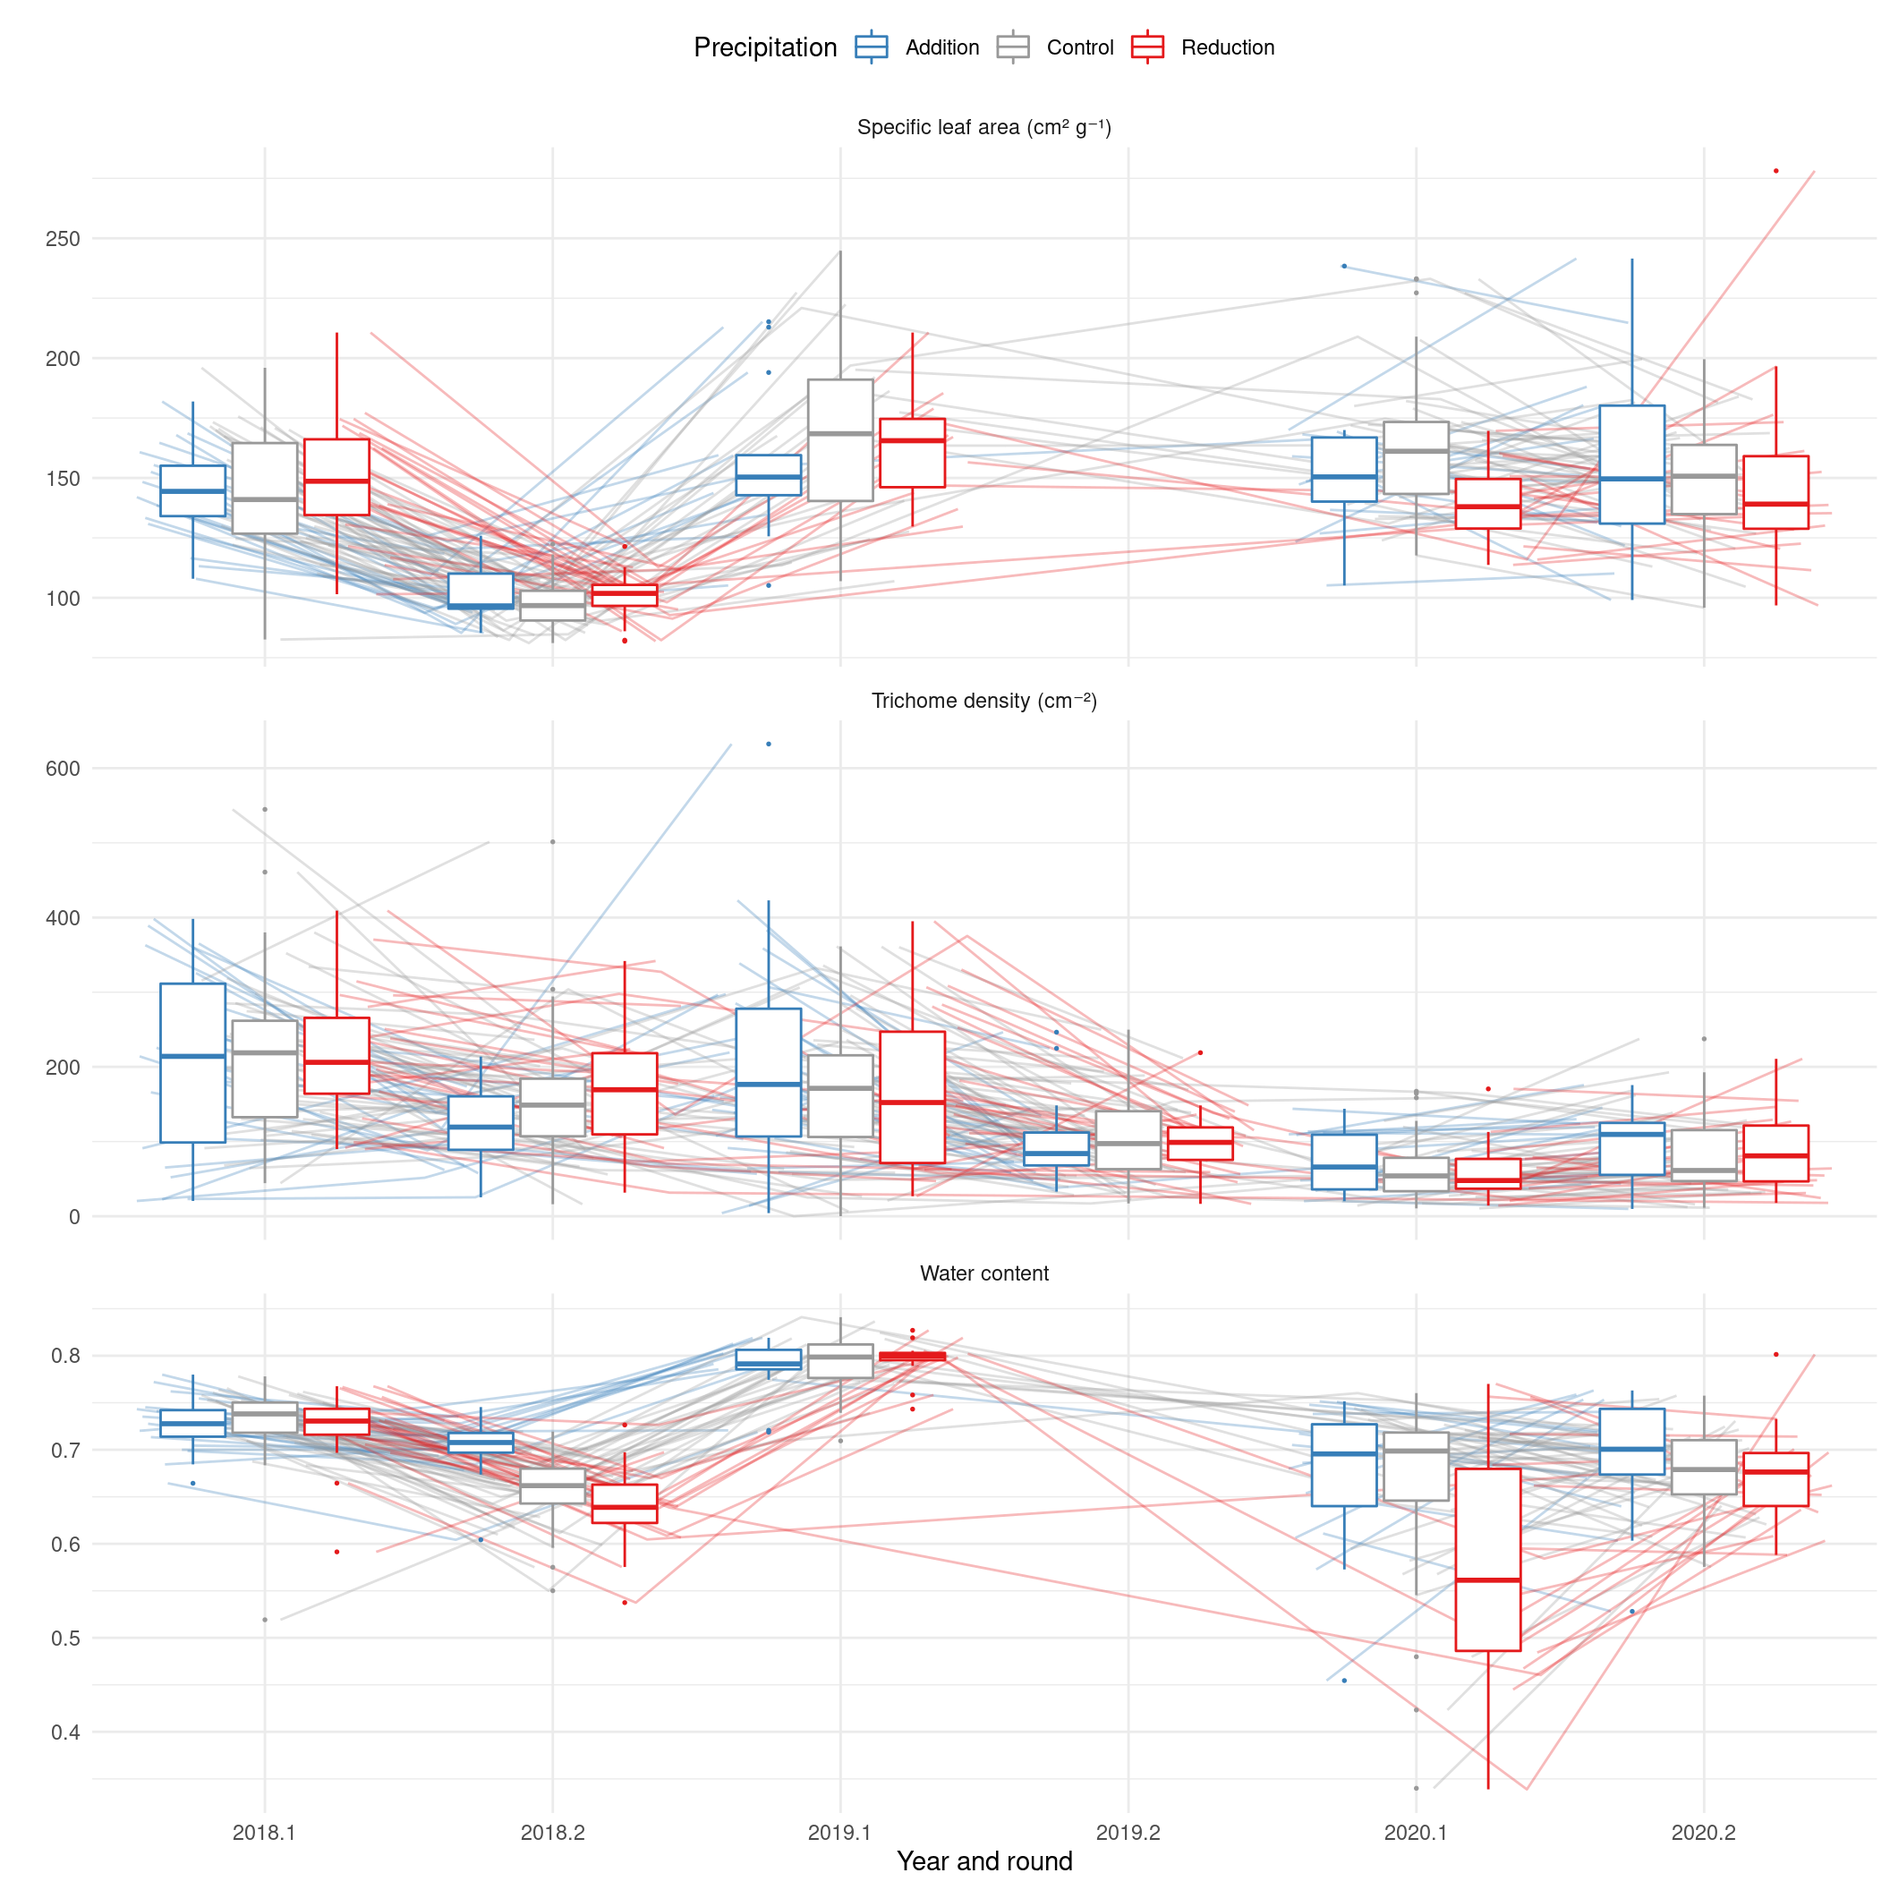
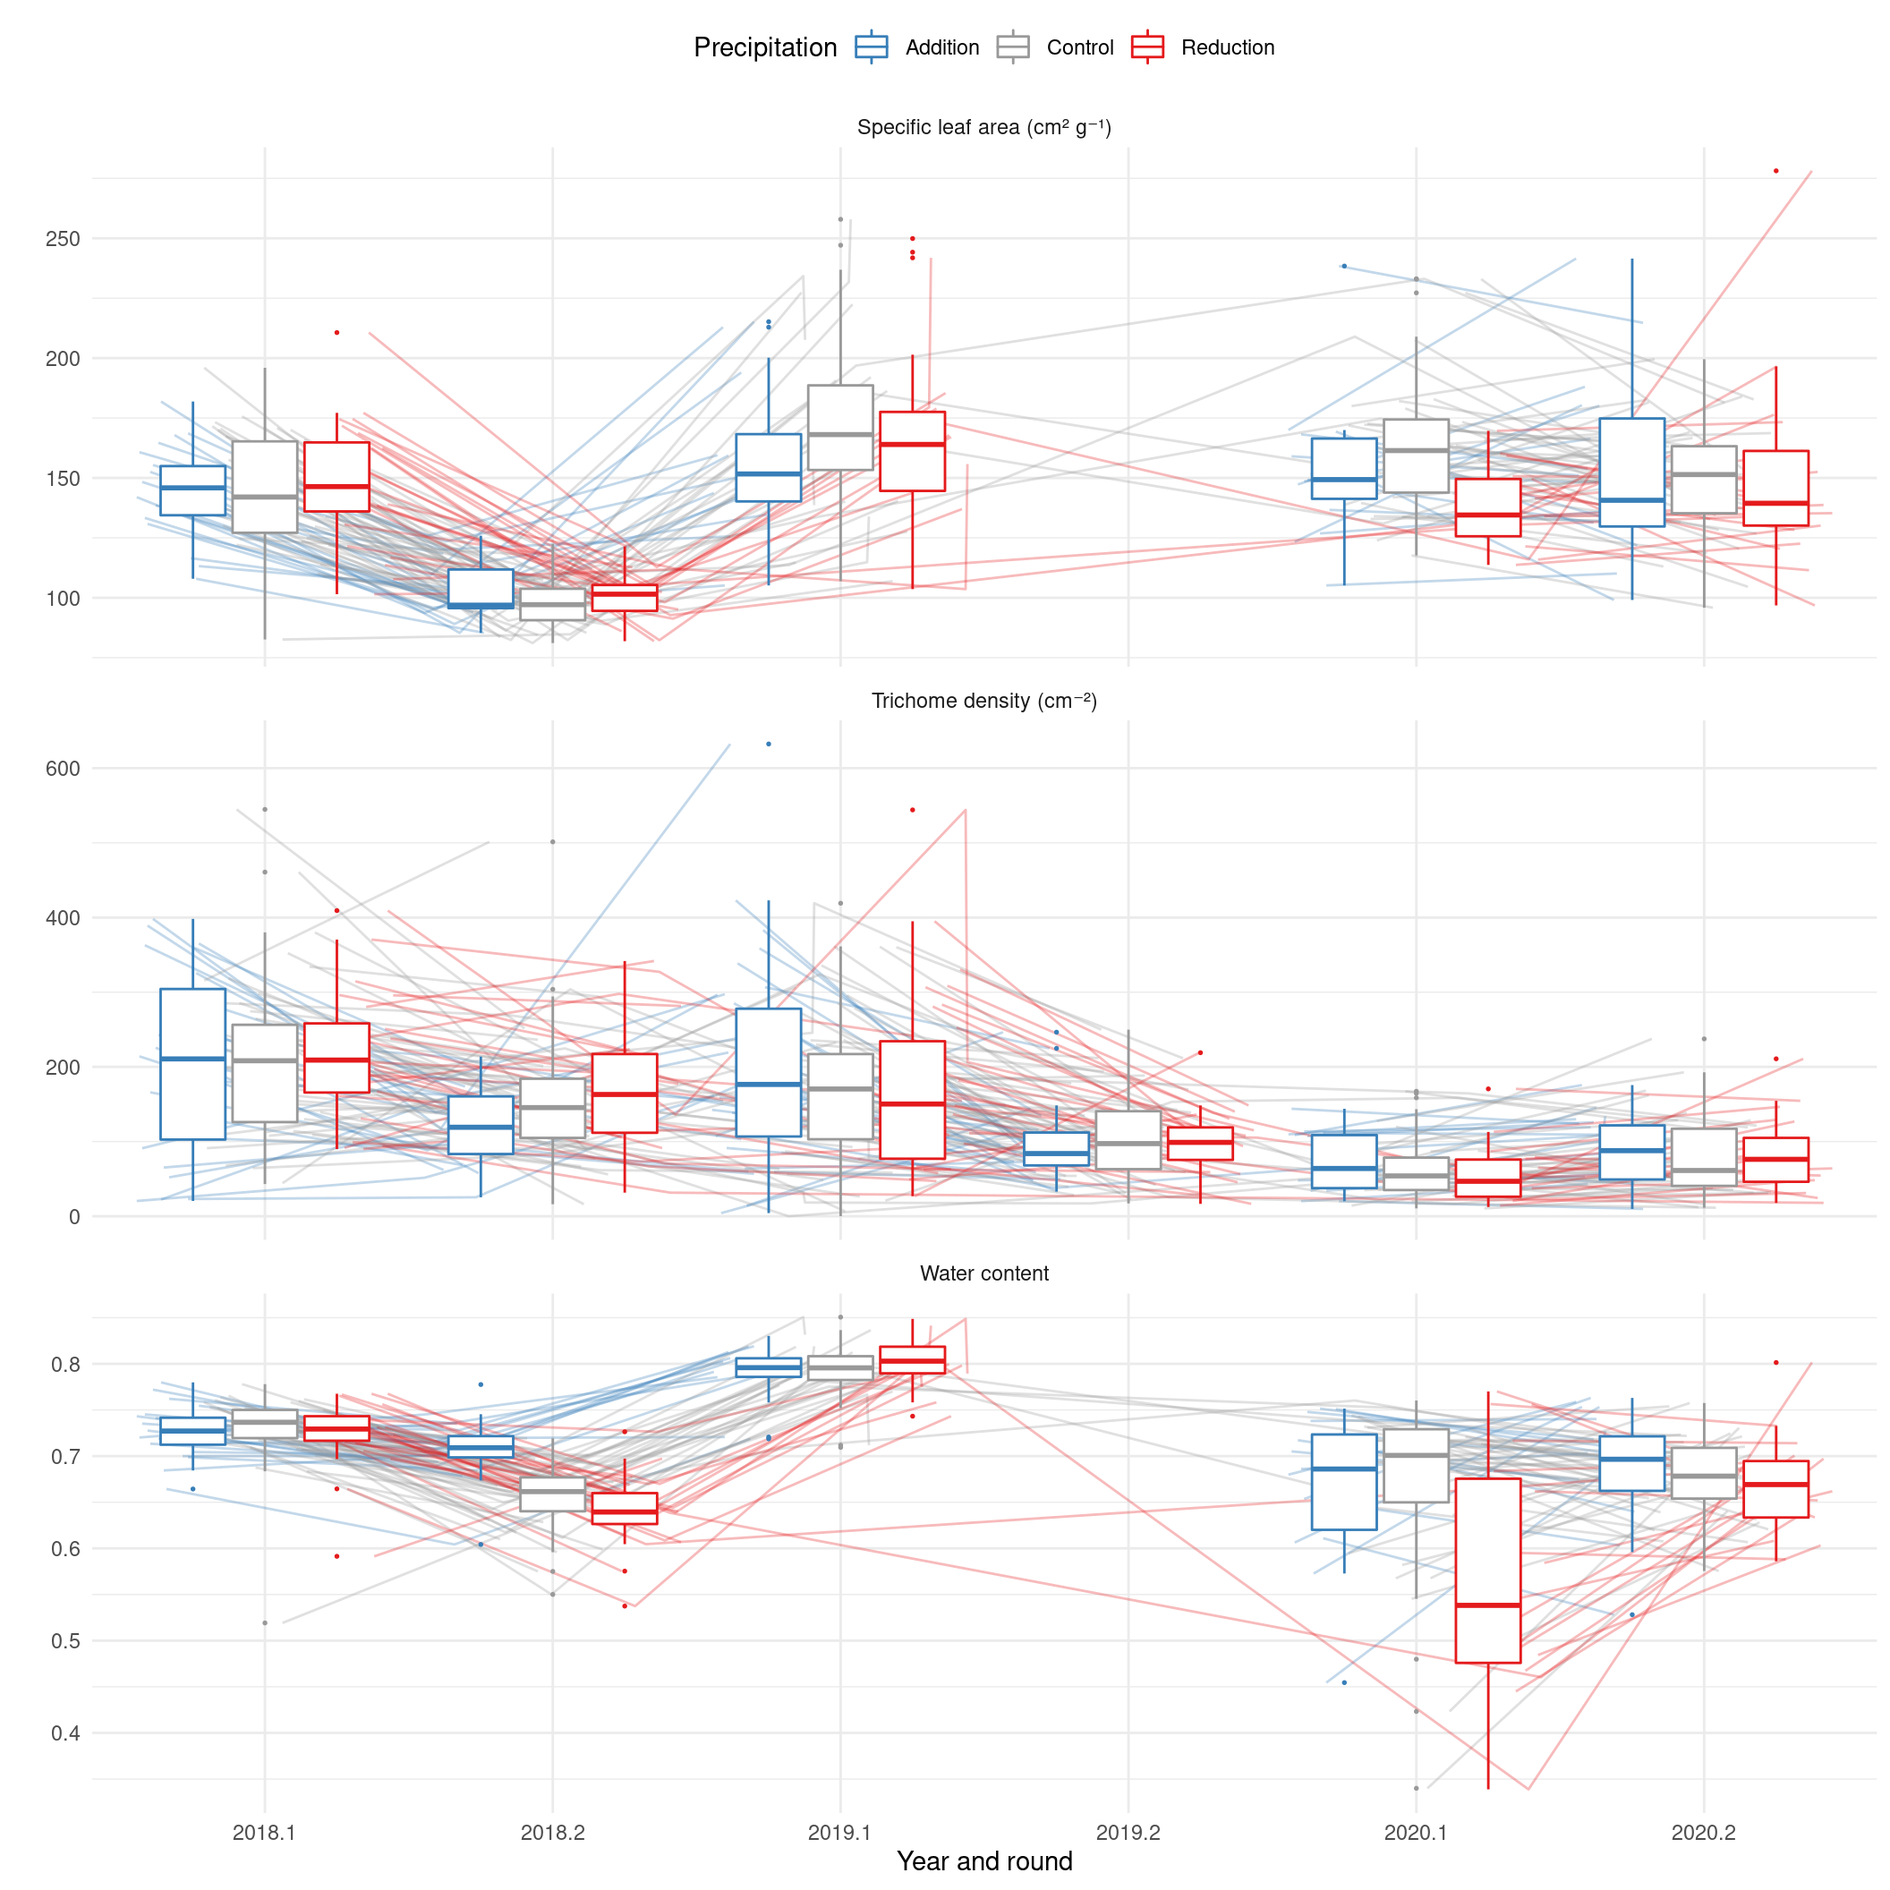
Repeated measure analysis of first 3 rounds leaf traits

diff --git a/maxfield_JP_analyses.html b/maxfield_JP_analyses.html
@@ -11,7 +11,7 @@
 
 <meta name="author" content="John Powers" />
 
-<meta name="date" content="2021-04-10" />
+<meta name="date" content="2021-04-12" />
 
 <title>Maxfield Meadow Ipomopsis Experiment</title>
 
@@ -255,7 +255,7 @@ div.tocify {
 
 <h1 class="title toc-ignore">Maxfield Meadow Ipomopsis Experiment</h1>
 <h4 class="author"><a href="http://sites.uci.edu/powers/">John Powers</a></h4>
-<h4 class="date">2021-04-10</h4>
+<h4 class="date">2021-04-12</h4>
 
 </div>
 
@@ -2605,7 +2605,7 @@ anova_table(mod.split.tests, mod.split) %&gt;% kable()</code></pre>
 <h3>Plots</h3>
 <pre class="r"><code>plot_split_plot &lt;- function(emm, data, traits.plot, geom = &quot;point&quot;, plot.emm = TRUE, facets=&quot;year&quot;) {
   
-  data.long &lt;- data %&gt;% select(c(all_of(traits.plot), all_of(facets), water, snow, sun_date, precip_est_mm)) %&gt;% 
+  data.long &lt;- data %&gt;% select(c(all_of(traits.plot), all_of(facets), water, snow)) %&gt;% 
     pivot_longer(all_of(traits.plot), names_to=&quot;trait&quot;) %&gt;% 
     mutate(trait = fct_relevel(trait, traits.plot), snow=fct_relevel(snow, &quot;Normal&quot;)) %&gt;% 
            #value = (value - alltraits.mean[as.character(trait)])/alltraits.sd[as.character(trait)]) %&gt;% 
@@ -2640,7 +2640,7 @@ anova_table(mod.split.tests, mod.split) %&gt;% kable()</code></pre>
   if(plot.emm) { return(split_plot + 
                           geom_linerange(aes(ymin=emmean-SE, ymax=emmean+SE,), position=position_dodge(width=0.8), size=1, show.legend=F) +
                           geom_point(aes(y=emmean), position=position_dodge(width=0.8), shape=&quot;-&quot;, size=16))
-  } else return(split_plot + coord_cartesian(ylim=c(0,NA)))
+  } else return(split_plot)
 }
 
 # grid.arrange( #Morphological traits - boxplot of raw data
@@ -2935,56 +2935,7 @@ mod.split.tests.water %&gt;% select(trait, contrast, adj.p.value) %&gt;% pivot_w
 </tr>
 </tbody>
 </table>
-<pre class="r"><code>map_dfr(mod.split, ~ summary(emmeans(ref_grid(.x), ~ snow)), .id = &quot;trait&quot;)</code></pre>
-<pre><code> trait                snow    emmean       SE    df lower.CL upper.CL
- corolla_length       Early   24.743  0.34278  4.57   23.837   25.650
- corolla_length       Normal  24.679  0.31184  5.15   23.884   25.473
- style_length         Early   24.371  0.29088  4.47   23.596   25.146
- style_length         Normal  24.497  0.26837  5.11   23.811   25.182
- corolla_width        Early    3.280  0.02877  4.34    3.203    3.358
- corolla_width        Normal   3.296  0.02763  4.80    3.224    3.368
- sepal_width          Early    1.490  0.02910  4.87    1.414    1.565
- sepal_width          Normal   1.486  0.02482  4.69    1.421    1.551
- nectar_24_h_ul       Early    1.660  0.09634  4.52    1.405    1.916
- nectar_24_h_ul       Normal   1.850  0.08845  5.13    1.625    2.076
- nectar_conc          Early   28.160  0.96999  4.88   25.648   30.672
- nectar_conc          Normal  27.271  0.85768  5.22   25.093   29.448
- nectar_sugar_24_h_mg Early    0.556  0.02403  4.19    0.490    0.621
- nectar_sugar_24_h_mg Normal   0.590  0.02255  4.94    0.532    0.648
- height_cm            Early   33.809  0.92346  4.67   31.385   36.233
- height_cm            Normal  36.571  0.86845  5.76   34.425   38.718
- open                 Early    4.151  0.29828  4.59    3.363    4.939
- open                 Normal   4.057  0.27980  5.36    3.352    4.762
- seeds_per_fruit      Early    6.717  0.25309  4.63    6.051    7.384
- seeds_per_fruit      Normal   6.433  0.22420  4.38    5.831    7.035
- seeds_est            Early  114.545  8.86725  4.85   91.531  137.559
- seeds_est            Normal 118.796  7.86064  4.83   98.377  139.215
- fruits_nonaborted    Early   25.948  2.75315  5.28   18.984   32.913
- fruits_nonaborted    Normal  26.674  2.44383  5.46   20.547   32.801
- flowers_est          Early   45.508  3.12693  5.13   37.530   53.485
- flowers_est          Normal  44.416  2.78508  5.23   37.352   51.480
- prop_infested        Early    0.229  0.02162  4.86    0.173    0.285
- prop_infested        Normal   0.188  0.01925  4.87    0.138    0.238
- prop_aborted         Early    0.422  0.03524  4.79    0.330    0.513
- prop_aborted         Normal   0.387  0.03116  4.91    0.307    0.468
- seeds_per_flower     Early    2.268  0.12698  4.63    1.934    2.603
- seeds_per_flower     Normal   2.508  0.11248  4.38    2.206    2.810
- sla                  Early  121.482  3.36478  4.48  112.520  130.443
- sla                  Normal 129.317  3.34111  4.38  120.351  138.283
- trichome_density     Early  104.670 12.10093  5.10   73.745  135.595
- trichome_density     Normal 116.849 10.79701  5.40   89.706  143.993
- water_content        Early    0.674  0.00586  4.95    0.659    0.689
- water_content        Normal   0.670  0.00580  4.81    0.655    0.685
- photosynthesis       Early   18.643  1.51488 12.57   15.359   21.927
- photosynthesis       Normal  17.878  1.40844 11.77   14.802   20.953
- conductance          Early    0.214  0.02527 14.20    0.160    0.268
- conductance          Normal   0.232  0.02369 13.38    0.181    0.283
- WUE                  Early  118.801  6.36655 13.93  105.140  132.462
- WUE                  Normal 110.198  5.98395 13.60   97.328  123.067
-
-Results are averaged over the levels of: year, water 
-Degrees-of-freedom method: kenward-roger 
-Confidence level used: 0.95 </code></pre>
+<pre class="r"><code>#map_dfr(mod.split, ~ summary(emmeans(ref_grid(.x), ~ snow)), .id = &quot;trait&quot;)</code></pre>
 </div>
 <div id="split-plot-repeated-measures" class="section level3">
 <h3>Split plot repeated measures</h3>
@@ -3027,13 +2978,7 @@ ggplot(aes(y=value, x=factor(round),color=snow, fill=snow)) +
   geom_point() + geom_path(aes(group=plantid)) + scale_color_manual(values=water_pal) + 
   labs(x=&quot;Year and round&quot;, y=&quot;&quot;, color=&quot;Precipitation&quot;) + theme_minimal() + theme(legend.position = &quot;top&quot;)</code></pre>
 <p><img src="images/lt_connected-3.png" width="1056" /></p>
-<pre class="r"><code>lt.long &lt;- lt %&gt;% pivot_longer(all_of(leaftraits), names_to = &quot;trait&quot;) %&gt;% arrange(date) %&gt;% drop_na(value)
-lt.long.repeated &lt;- lt.long %&gt;% filter(paste(trait, plantid) %in% 
-                     (lt.long %&gt;% group_by(plantid, trait) %&gt;% summarize(n = length(unique(year.round))) %&gt;% 
-                        filter(n&gt;1) %&gt;% mutate(trait_plantid = paste(trait, plantid)) %&gt;% pull(trait_plantid))) %&gt;% 
-  group_by(trait, plotid, plantid, water, year.round) %&gt;% summarize(value=mean(value)) 
-
-ggplot(lt.long.repeated, aes(y=value, x=year.round, color=water)) + 
+<pre class="r"><code>ggplot(lt %&gt;% pivot_longer(all_of(leaftraits), names_to = &quot;trait&quot;), aes(y=value, x=year.round, color=water)) + 
   facet_wrap(vars(trait), scales=&quot;free_y&quot;,labeller=as_labeller(traitnames.units),ncol=1) + 
   geom_path(aes(group=paste(water, plantid)), position=position_dodge2(width=0.9), alpha=0.3) + #dodging not lining up
   geom_boxplot(outlier.size=0.3) + 
@@ -3045,18 +2990,14 @@ ggplot(lt.long.repeated, aes(y=value, x=year.round, color=water)) +
 
 plot_rm_change &lt;- function(data, round_x, round_y, range_xy) {
   ggplot(data, aes_(x=as.name(round_x), y=as.name(round_y), color=as.name(&quot;water&quot;))) + 
-    geom_abline(intercept=0, slope=1) + geom_smooth(se=F, span=0.9) + geom_point(size=1)  +  geom_rug() +
+    geom_abline(intercept=0, slope=1) + geom_smooth(se=F, method=&quot;lm&quot;) + geom_point(size=1)  +  geom_rug() +
     scale_color_manual(values=water_pal, guide=F) + coord_fixed(xlim=range_xy, ylim=range_xy) + theme_minimal()
 }
 
 do.call(grid.arrange, map2(c(levels(lt$year.round)[-6],&quot;2018.1&quot;), c(levels(lt$year.round)[-1],&quot;2019.1&quot;), plot_rm_change, data=lt.water_content, range_xy=range(lt$water_content, na.rm=T)))</code></pre>
 <p><img src="images/lt_plantcorr-1.png" width="720" /></p>
 <pre class="r"><code>#plot(lt.water_content %&gt;% select(-c(plantid,water,snow)))</code></pre>
-<pre class="r"><code>#just the plants that were sampled in more than one round for each trait
-lt.repeated &lt;- lt.long.repeated %&gt;% pivot_wider(names_from=&quot;trait&quot;)
-lt.repeated.subplot &lt;- lt.repeated %&gt;% group_by(year.round, plotid) %&gt;% summarize(across(all_of(leaftraits), mean, na.rm=T))
-
-lt.mod.split.rm &lt;- map(set_names(leaftraits), 
+<pre class="r"><code>lt.mod.split.rm &lt;- map(set_names(leaftraits), 
                   ~ lmer(lt[[.x]] ~  year * round * water * snow + (1|snow:plot) + (1|snow:plotid) + (1|plantid), data=lt))
 lt.mod.split.rm.coefs &lt;- map_dfr(lt.mod.split.rm, tidy, .id=&quot;trait&quot;)
 lt.mod.split.rm.tests &lt;- map(lt.mod.split.rm, anova, ddf=&quot;Ken&quot;) %&gt;% map_dfr(tidy, .id=&quot;trait&quot;)
@@ -3171,6 +3112,94 @@ anova_table(lt.mod.split.rm.tests, lt.mod.split.rm) %&gt;% kable()</code></pre>
   mutate(year.round=paste(year,round,sep=&quot;.&quot;))
 plot_split_plot(lt.mod.split.rm.emm, lt.subplotround, leaftraits, facets=&quot;year.round&quot;) </code></pre>
 <p><img src="images/lt_repeated_split-1.png" width="768" /></p>
+</div>
+<div id="first-three-rounds" class="section level4">
+<h4>First three rounds</h4>
+<pre class="r"><code># get plants that were sampled more than once for the first three rounds
+lt.long.3 &lt;- lt %&gt;% pivot_longer(all_of(leaftraits), names_to = &quot;trait&quot;) %&gt;% arrange(date) %&gt;% drop_na(value) %&gt;%
+  filter(year.round %in% c(&quot;2018.1&quot;,&quot;2018.2&quot;,&quot;2019.1&quot;))
+lt.long.repeated.3 &lt;- lt.long.3  %&gt;% filter(paste(trait, plantid) %in% 
+                     (lt.long.3 %&gt;% group_by(plantid, trait) %&gt;% summarize(n = length(unique(year.round))) %&gt;% 
+                        filter(n&gt;1) %&gt;% mutate(trait_plantid = paste(trait, plantid)) %&gt;% pull(trait_plantid))) %&gt;% 
+  group_by(trait, plot, plotid, plantid, water, snow, year.round) %&gt;% summarize(value=mean(value)) 
+lt.repeated.3 &lt;- lt.long.repeated.3 %&gt;% pivot_wider(names_from=&quot;trait&quot;)
+lt.repeated.3.subplotround &lt;- lt.repeated.3 %&gt;% group_by(year.round, water, snow, plotid) %&gt;% 
+  summarize(across(all_of(leaftraits), mean, na.rm=T))
+
+lt.mod.split.rm.3 &lt;- map(set_names(leaftraits), 
+                  ~ lmer(lt.repeated.3[[.x]] ~  year.round * water * snow + (1|snow:plot) + (1|snow:plotid) + (1|plantid), data=lt.repeated.3))
+lt.mod.split.rm.3.tests &lt;- map(lt.mod.split.rm.3, anova, ddf=&quot;Ken&quot;) %&gt;% map_dfr(tidy, .id=&quot;trait&quot;)
+anova_table(lt.mod.split.rm.3.tests, lt.mod.split.rm.3) %&gt;% kable()</code></pre>
+<table>
+<colgroup>
+<col width="13%" />
+<col width="11%" />
+<col width="4%" />
+<col width="3%" />
+<col width="13%" />
+<col width="12%" />
+<col width="8%" />
+<col width="17%" />
+<col width="7%" />
+<col width="7%" />
+</colgroup>
+<thead>
+<tr class="header">
+<th align="left">trait</th>
+<th align="left">year.round</th>
+<th align="left">water</th>
+<th align="left">snow</th>
+<th align="left">year.round:water</th>
+<th align="left">year.round:snow</th>
+<th align="left">water:snow</th>
+<th align="left">year.round:water:snow</th>
+<th align="left">singular</th>
+<th align="right">R2m</th>
+</tr>
+</thead>
+<tbody>
+<tr class="odd">
+<td align="left">sla</td>
+<td align="left">2.2 x 10<sup>-37</sup></td>
+<td align="left">0.87</td>
+<td align="left">0.40</td>
+<td align="left">0.75</td>
+<td align="left">0.064</td>
+<td align="left">0.79</td>
+<td align="left">0.84</td>
+<td align="left">FALSE</td>
+<td align="right">0.5823653</td>
+</tr>
+<tr class="even">
+<td align="left">trichome_density</td>
+<td align="left">1.3 x 10<sup>-6</sup></td>
+<td align="left">0.91</td>
+<td align="left">0.12</td>
+<td align="left">0.087</td>
+<td align="left">0.30</td>
+<td align="left">0.76</td>
+<td align="left">0.72</td>
+<td align="left">TRUE</td>
+<td align="right">0.1528963</td>
+</tr>
+<tr class="odd">
+<td align="left">water_content</td>
+<td align="left">1.2 x 10<sup>-39</sup></td>
+<td align="left">0.027</td>
+<td align="left">0.65</td>
+<td align="left">1.8 x 10<sup>-5</sup></td>
+<td align="left">0.16</td>
+<td align="left">0.70</td>
+<td align="left">0.54</td>
+<td align="left">TRUE</td>
+<td align="right">0.6840865</td>
+</tr>
+</tbody>
+</table>
+<pre class="r"><code>lt.mod.split.rm.3.emm &lt;- map_dfr(lt.mod.split.rm.3, ~ summary(emmeans(.x, ~  year.round * water * snow)), .id=&quot;trait&quot;)
+plot_split_plot(lt.mod.split.rm.3.emm, lt.repeated.3.subplotround, leaftraits, facets=&quot;year.round&quot;) </code></pre>
+<p><img src="images/lt_first_three-1.png" width="384" /></p>
+<pre class="r"><code>#plot_split_plot(lt.mod.split.rm.3.emm, lt.repeated.3, leaftraits, geom=&quot;boxplot&quot;, plot.emm=FALSE, facets=&quot;year.round&quot;) </code></pre>
 </div>
 <div id="physiology" class="section level4">
 <h4>Physiology</h4>
